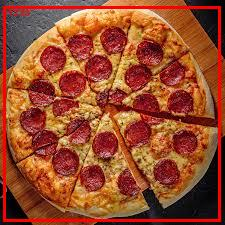
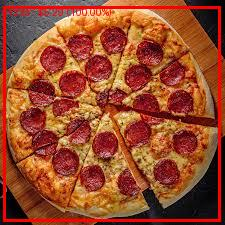
Finally

Changed region(s): [[0.1556, 0.0311, 0.4978, 0.0933]]

diff --git a/ComputerVision.py b/ComputerVision.py
@@ -1,76 +1,137 @@
 import boto3
 from PIL import Image, ImageDraw
+import requests
 
 # AWS Rekognition client setup
-rekognition = boto3.client("rekognition", region_name="us-east-1")  # Replace 'us-east-1' with your region
+rekognition = boto3.client("rekognition", region_name="us-east-1")
+
+# SERP API Key (replace with your key)
[1 lines of base64/hex data omitted]
 
 
 def detect_objects(image_path):
     """
     Detect objects in an image using AWS Rekognition.
-
     :param image_path: Path to the image file
-    :return: List of detected objects
+    :return: List of detected objects excluding food
     """
     with open(image_path, "rb") as image_file:
         image_bytes = image_file.read()
 
-    # Rekognition API call for object detection
+    # Rekognition API call
     response = rekognition.detect_labels(
         Image={"Bytes": image_bytes},
-        MaxLabels=10,  # Adjust as needed
-        MinConfidence=50  # Minimum confidence level
+        MaxLabels=10,  # Number of labels to detect
+        MinConfidence=50  # Minimum confidence threshold
     )
 
     if "Labels" in response:
-        return response["Labels"]
+        # Exclude food-related objects
+        return [label for label in response["Labels"] if "Food" not in label["Name"]]
     else:
         print("No objects detected.")
         return []
 
 
-def visualize_objects(image_path, detected_objects):
+def search_price_with_serp_api(object_name):
     """
-    Visualize detected objects on the image by drawing bounding boxes.
+    Use SERP API to search for a single product price, excluding irrelevant results.
+    :param object_name: The name of the detected object
+    :return: First reasonable price found or "Unknown" if no price is available
+    """
+    print(f"Searching for prices of '{object_name}'...")
+    api_url = "https://serpapi.com/search"
+    params = {
+        "engine": "google",
+        "q": f"{object_name} regular pizza affordable",  # Refined query
+        "tbm": "shop",  # Shopping search
+        "api_key": SERP_API_KEY
+    }
 
+    response = requests.get(api_url, params=params)
+
+    if response.status_code == 200:
+        results = response.json()
+
+        # Extract all shopping results
+        shopping_results = results.get("shopping_results", [])
+        if shopping_results:
+            # Print all results for debugging
+            print("Shopping Results:", shopping_results)
+
+            # Filter and return the most reasonable price
+            prices = []
+            for result in shopping_results:
+                price = result.get("price", "Unknown")
+                if price != "Unknown" and price.startswith("$"):
+                    try:
+                        numeric_price = float(price.replace("$", "").replace(",", ""))
+                        if 5 <= numeric_price <= 50:  # Reasonable price range
+                            prices.append((result["title"], numeric_price))
+                    except ValueError:
+                        continue
+
+            if prices:
+                print("Filtered Prices:", prices)
+                return f"${min(prices, key=lambda x: x[1])[1]:.2f}"
+
+        print("No relevant prices found in the results.")
+        return "Unknown"
+    else:
+        print(f"SERP API Error: {response.status_code}, {response.text}")
+        return "Unknown"
+
+
+def visualize_objects(image_path, top_object, obj_price):
+    """
+    Visualize the top detected object on the image and display its price.
     :param image_path: Path to the image file
-    :param detected_objects: List of detected objects
+    :param top_object: Top detected object
+    :param obj_price: Price of the object
     """
     image = Image.open(image_path)
     draw = ImageDraw.Draw(image)
 
-    for obj in detected_objects:
-        if "Instances" in obj:
-            for instance in obj["Instances"]:
-                box = instance["BoundingBox"]
-                left = box["Left"] * image.width
-                top = box["Top"] * image.height
-                width = box["Width"] * image.width
-                height = box["Height"] * image.height
+    if "Instances" in top_object:
+        obj_name = top_object["Name"]
+        confidence = top_object["Confidence"]
 
-                # Draw bounding box
-                draw.rectangle([left, top, left + width, top + height], outline="red", width=3)
-                # Add label
-                draw.text((left, top), obj["Name"], fill="red")
+        for instance in top_object["Instances"]:
+            box = instance["BoundingBox"]
+            left = box["Left"] * image.width
+            top = box["Top"] * image.height
+            width = box["Width"] * image.width
+            height = box["Height"] * image.height
 
-    # Save the output image
+            # Draw rectangle and add label
+            draw.rectangle([left, top, left + width, top + height], outline="red", width=3)
+            label = f"{obj_name} - {obj_price} ({confidence:.2f}%)"
+            draw.text((left, top), label, fill="red")
+
+    # Save annotated image
     output_path = "output_image.jpg"
     image.save(output_path)
-    print(f"Output image saved as {output_path}")
+    print(f"Annotated image saved as {output_path}")
 
 
 def main():
-    image_path = "pizza.jpg"  # Replace with your image file path
+    image_path = "pizza.jpg"  # Replace with your image path
 
-    print("Detecting objects...")
+    print("Detecting objects with AWS Rekognition...")
     detected_objects = detect_objects(image_path)
 
     if detected_objects:
-        print("Detected objects:")
-        for obj in detected_objects:
-            print(f"Name: {obj['Name']}, Confidence: {obj['Confidence']:.2f}%")
+        # Find the object with the highest confidence
+        top_object = max(detected_objects, key=lambda obj: obj["Confidence"])
+        obj_name = top_object["Name"]
+        confidence = top_object["Confidence"]
+        print(f"Top Detected Object: {obj_name} (Confidence: {confidence:.2f}%)")
 
-        visualize_objects(image_path, detected_objects)
+        # Fetch price using SERP API for the top object
+        obj_price = search_price_with_serp_api(obj_name)
+
+        # Visualize the top detected object with price
+        visualize_objects(image_path, top_object, obj_price)
     else:
         print("No objects detected.")
 
